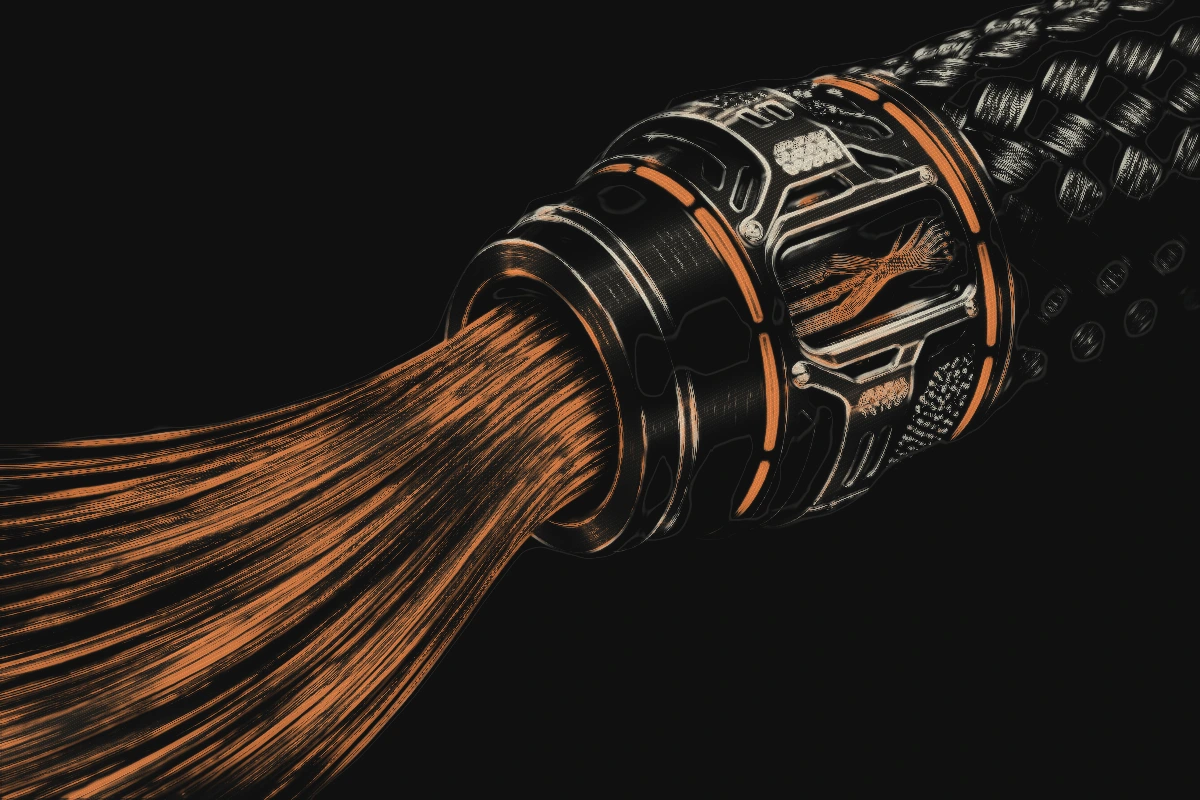
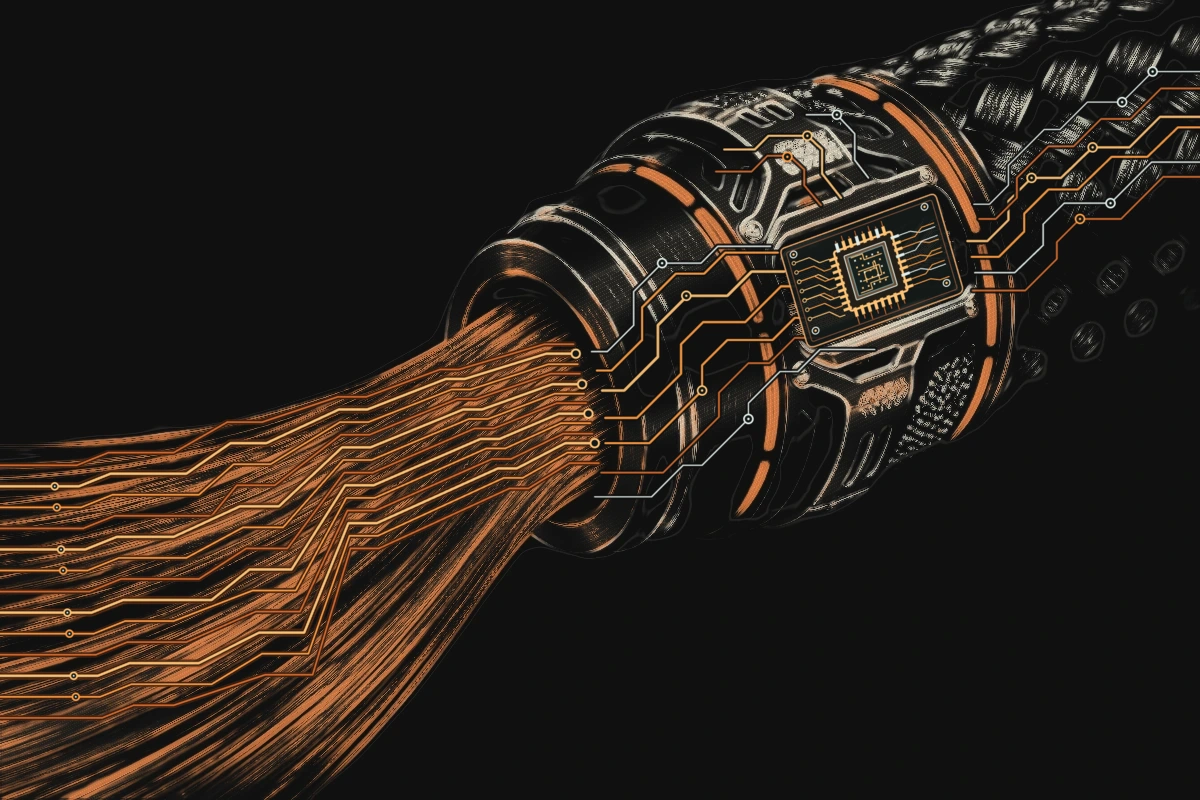
Carry the cable's circuit traces through the whole homepage

Changed region(s): [[0.0, 0.0625, 1.0, 0.9062], [0.5858, 0.125, 0.74, 0.25]]

diff --git a/optical-scan.js b/optical-scan.js
@@ -2,7 +2,8 @@
   const hero = document.querySelector(".hero");
   const grid = hero?.querySelector(".hero-grid");
   const study = grid?.querySelector(".study");
-  const picture = study?.querySelector(".assembly-view");
+  const viewport = study?.querySelector(".study-viewport");
+  const picture = viewport?.querySelector(".assembly-view");
   if (!picture || !("ResizeObserver" in window)) return;
 
   const motion = matchMedia("(prefers-reduced-motion: reduce)");
@@ -12,6 +13,8 @@
 
   const cache = new Map();
   const clamp = (value) => Math.max(0, Math.min(1, value));
+  const smooth = (value) => value * value * (3 - 2 * value);
+  const restingOpacity = 0.30;
   let active;
   let geometry;
   let frame = 0;
@@ -22,12 +25,11 @@
     plate.className = `optical-scan-plate optical-scan-${name}`;
     plate.alt = "";
     plate.setAttribute("aria-hidden", "true");
-    plate.fetchPriority = "low";
-    plate.src = `/assets/photonic-${name}-${variant}.webp`;
-    return plate.decode().then(() => plate);
+    plate.src = `/assets/photonic-${name}-${variant}.webp?v=79847d54fa`;
+    return plate;
   }
 
-  async function prepare() {
+  function prepare() {
     if (motion.matches) {
       delete hero.dataset.opticalScan;
       delete hero.dataset.opticalPhase;
@@ -42,49 +44,59 @@
       return;
     }
     if (!cache.has(variant)) {
-      cache.set(variant, Promise.all([loadPlate("digital", variant), loadPlate("binary", variant)]));
+      cache.set(variant, [loadPlate("digital", variant), loadPlate("binary", variant)]);
     }
-    try {
-      const plates = await cache.get(variant);
-      if (motion.matches || variant !== (compact.matches ? "mobile" : "desktop")) return;
-      if (!stack.isConnected) picture.before(stack);
-      stack.replaceChildren(picture, ...plates);
-      active = variant;
-      hero.dataset.opticalScan = "ready";
-      measure();
-    } catch {
-      cache.delete(variant);
-    }
+    if (!stack.isConnected) picture.before(stack);
+    stack.replaceChildren(picture, ...cache.get(variant));
+    active = variant;
+    hero.dataset.opticalScan = "ready";
+    measure();
   }
 
   function measure() {
     if (!hero.dataset.opticalScan) return;
-    const art = study.getBoundingClientRect();
-    const start = Math.max(0, scrollY + art.top + art.height * 0.35 - innerHeight);
-    // The artwork's travel comes from existing content, so the effect adds
-    // no scroll distance. These landmarks themselves are never transformed.
+    const art = viewport.getBoundingClientRect();
+    const initialTop = scrollY + art.top;
+    const restingCenter = innerHeight * (compact.matches ? 0.56 : 0.45);
     const end = scrollY + hero.getBoundingClientRect().bottom + innerHeight * 0.4;
-    geometry = { start, distance: Math.max(1, end - start) };
+    // Match the figure at the top, then settle into a viewport-relative position.
+    // The figure still reserves its original space in the document.
+    geometry = {
+      initialTop,
+      restingTop: Math.min(initialTop - art.height * 0.1, restingCenter - art.height * 0.5),
+      distance: Math.max(1, end),
+    };
+    stack.style.setProperty("--cable-left", `${art.left}px`);
+    stack.style.setProperty("--cable-width", `${art.width}px`);
+    stack.style.setProperty("--cable-height", `${art.height}px`);
     lastProgress = undefined;
-    schedule();
+    cancelAnimationFrame(frame);
+    paint();
   }
 
   function paint() {
     frame = 0;
     if (!geometry) return;
-    const progress = clamp((scrollY - geometry.start) / geometry.distance);
+    const progress = clamp(scrollY / geometry.distance);
     if (progress === lastProgress && hero.dataset.opticalPhase) return;
     lastProgress = progress;
-    // Finish becoming linework while there is still enough light to read it.
-    // Only the artwork moves at a different speed from the document.
-    const digital = clamp(progress / 0.67);
-    const travel = progress * geometry.distance;
+    // Traces emerge on the first pixel. Keep them bright while the binary
+    // etching develops, then leave the completed plate behind the content.
+    const firstTraces = 1 - (1 - clamp(scrollY / 150)) ** 3;
+    const digital = 0.4 * firstTraces + 0.6 * (1 - (1 - clamp(progress / 0.58)) ** 1.9);
+    const binary = 0.24 * firstTraces + 0.76 * (1 - (1 - clamp(progress / 0.65)) ** 1.65);
+    const drift = 1 - (1 - progress) ** 2;
+    const top = geometry.initialTop + (geometry.restingTop - geometry.initialTop) * drift;
+    const fade = smooth(clamp((progress - 0.12) / 0.88));
+    const opacity = 1 - (1 - restingOpacity) * fade;
     stack.style.setProperty("--engraving-opacity", String(digital));
-    stack.style.setProperty("--binary-opacity", String(digital * digital));
-    stack.style.setProperty("--cable-drift", `${travel * 0.68}px`);
-    stack.style.setProperty("--cable-scale", String(1 - 0.16 * progress));
-    stack.style.setProperty("--cable-opacity", String((1 - progress) ** 1.16));
-    hero.dataset.opticalPhase = digital === 0 ? "start" : digital === 1 ? "complete" : "scanning";
+    stack.style.setProperty("--binary-opacity", String(binary));
+    stack.style.setProperty("--cable-contrast", String(1 + digital * 0.44));
+    stack.style.setProperty("--cable-top", `${top}px`);
+    stack.style.setProperty("--cable-scale", String(1 - 0.14 * drift));
+    stack.style.setProperty("--cable-opacity", String(opacity));
+    stack.style.setProperty("--section-cable-opacity", String(opacity * smooth(clamp((progress - 0.35) / 0.4))));
+    hero.dataset.opticalPhase = progress === 0 ? "start" : binary === 1 ? "complete" : "scanning";
   }
 
   function schedule() {
@@ -92,8 +104,9 @@
   }
 
   const observer = new ResizeObserver(measure);
-  observer.observe(study);
+  observer.observe(viewport);
   observer.observe(grid);
+  observer.observe(document.querySelector(".masthead"));
   window.addEventListener("scroll", schedule, { passive: true });
   window.addEventListener("resize", measure, { passive: true });
   compact.addEventListener("change", prepare);

diff --git a/optical-scan.css b/optical-scan.css
@@ -34,15 +34,14 @@
   object-position: var(--scan-object-position);
   pointer-events: none;
   opacity: var(--engraving-opacity, 0);
-  transition: opacity 100ms linear;
 }
 
 .optical-scan-binary {
   opacity: var(--binary-opacity, 0);
 }
 
-/* Let the image cross the figure boundary onto the page behind the next
-   section. All text, controls and section boundaries stay in normal flow. */
+/* Only the artwork is attached to the viewport. The figure, its controls
+   and every section retain their natural scroll positions. */
 #main:has(.hero[data-optical-scan]) {
   overflow-x: clip;
   isolation: isolate;
@@ -54,40 +53,124 @@
 }
 
 .hero[data-optical-scan] .optical-scan-stack {
+  position: fixed;
+  top: 0;
+  left: var(--cable-left);
+  width: var(--cable-width);
+  height: var(--cable-height);
   pointer-events: none;
-  transform-origin: right 44%;
-  transform: translate3d(0, var(--cable-drift, 0px), 0) scale(var(--cable-scale, 1));
+  transform-origin: right center;
+  transform: translate3d(0, var(--cable-top), 0) scale(var(--cable-scale, 1));
   opacity: var(--cable-opacity, 1);
 }
 
+.hero[data-optical-scan] .assembly-view img {
+  filter: contrast(var(--cable-contrast, 1)) saturate(var(--cable-contrast, 1));
+}
+
+.hero[data-optical-scan] .study-title {
+  padding: 0.34rem 0.55rem;
+  border-radius: 3px;
+  background: rgb(16 17 17 / 88%);
+  color: #dadad2;
+}
+
+.hero[data-optical-scan]:not([data-optical-phase="start"]) .optical-scan-stack:has(.assembly-view[hidden]) {
+  display: block;
+  opacity: var(--section-cable-opacity, 0);
+}
+
 .hero[data-optical-scan] ~ .clock-strip,
-.hero[data-optical-scan] ~ .practice {
+.hero[data-optical-scan] ~ .practice,
+.hero[data-optical-scan] ~ .field-notes,
+#main:has(.hero[data-optical-scan]) + .site-footer {
   position: relative;
   z-index: 1;
 }
 
 .hero[data-optical-scan] ~ .clock-strip {
-  background: rgb(21 22 21 / 94%);
+  background: rgb(21 22 21 / 78%);
+}
+
+.hero[data-optical-scan] ~ .field-notes {
+  background: transparent;
 }
 
 .hero[data-optical-scan] ~ .practice {
-  background: linear-gradient(to bottom, rgb(16 17 17 / 44%), rgb(16 17 17 / 78%) 20rem, var(--bg) 38rem);
+  background: linear-gradient(to bottom, rgb(16 17 17 / 50%), rgb(16 17 17 / 35%) 19rem, transparent 34rem);
+}
+
+.hero[data-optical-scan] ~ .practice .practice-header,
+.hero[data-optical-scan] ~ .field-notes .field-notes__articles {
+  text-shadow: 0 1px 4px #101111, 0 0 12px rgb(16 17 17 / 65%);
+}
+
+.hero[data-optical-scan] ~ .practice .practice-intro {
+  color: #c9c8bf;
 }
 
 .hero[data-optical-scan] ~ .practice .practice-module {
-  background: var(--bg);
+  background: rgb(16 17 17 / 32%);
+}
+
+.hero[data-optical-scan] ~ .practice .practice-figure {
+  background: rgb(20 22 20 / 42%);
 }
 
 @media (max-width: 760px) {
   .optical-scan-stack {
     --scan-object-position: center 54%;
-    mask-image: linear-gradient(180deg, transparent, #000 12%, #000 78%, transparent);
+    mask-image:
+      linear-gradient(90deg, transparent, #000 8%),
+      linear-gradient(180deg, transparent, #000 12%, #000 78%, transparent);
   }
 }
 
 @media (prefers-reduced-motion: reduce) {
+  body:has(.hero) {
+    isolation: isolate;
+  }
+
+  body:has(.hero)::before {
+    content: "";
+    position: fixed;
+    z-index: -1;
+    pointer-events: none;
+    right: 0;
+    top: 45%;
+    transform: translateY(-50%);
+    width: min(58vw, 62rem);
+    aspect-ratio: 3 / 2;
+    background:
+      url("/assets/photonic-binary-desktop.webp?v=79847d54fa") center / cover,
+      url("/assets/photonic-digital-desktop.webp?v=79847d54fa") center / cover;
+    mask-image: linear-gradient(90deg, transparent, black 15%), linear-gradient(0deg, transparent, black 15%, black 85%, transparent);
+    mask-composite: intersect;
+    mix-blend-mode: lighten;
+    opacity: 0.30;
+  }
+
+  .hero, .masthead:has(+ main .hero) {
+    background: var(--bg);
+  }
+
+  .hero ~ .field-notes {
+    background: transparent;
+  }
+
+  .hero ~ .practice .practice-figure {
+    background: rgb(20 22 20 / 55%);
+  }
+
   .hero .optical-scan-stack .optical-scan-plate {
     display: none;
-    transition: none;
+  }
+}
+
+@media (prefers-reduced-motion: reduce) and (max-width: 760px) {
+  body:has(.hero)::before {
+    width: 86vw;
+    top: 56%;
+    background-image: url("/assets/photonic-binary-mobile.webp?v=79847d54fa"), url("/assets/photonic-digital-mobile.webp?v=79847d54fa");
   }
 }

diff --git a/index.html b/index.html
@@ -30,12 +30,24 @@
       type="font/woff2"
       crossorigin
     />
+    <link
+      rel="preload"
+      as="image"
+      href="/assets/photonic-digital-desktop.webp?v=79847d54fa"
+      media="(min-width: 761px) and (prefers-reduced-motion: no-preference)"
+    />
+    <link
+      rel="preload"
+      as="image"
+      href="/assets/photonic-digital-mobile.webp?v=79847d54fa"
+      media="(max-width: 760px) and (prefers-reduced-motion: no-preference)"
+    />
     <link rel="stylesheet" href="/styles.css?v=f256343ba1" />
-    <link rel="stylesheet" href="/optical-scan.css?v=edd86766a5" />
+    <link rel="stylesheet" href="/optical-scan.css?v=6530033d73" />
     <link rel="stylesheet" href="/practice.css?v=b164f9aa45" />
     <link rel="stylesheet" href="/notes.css" />
     <script src="/script.js?v=8922699587" defer></script>
-    <script src="/optical-scan.js?v=181437c620" defer></script>
+    <script src="/optical-scan.js?v=7b8ea08d90" defer></script>
     <script src="/practice.js?v=fafe996a1b" defer></script>
   </head>
   <body id="top">
